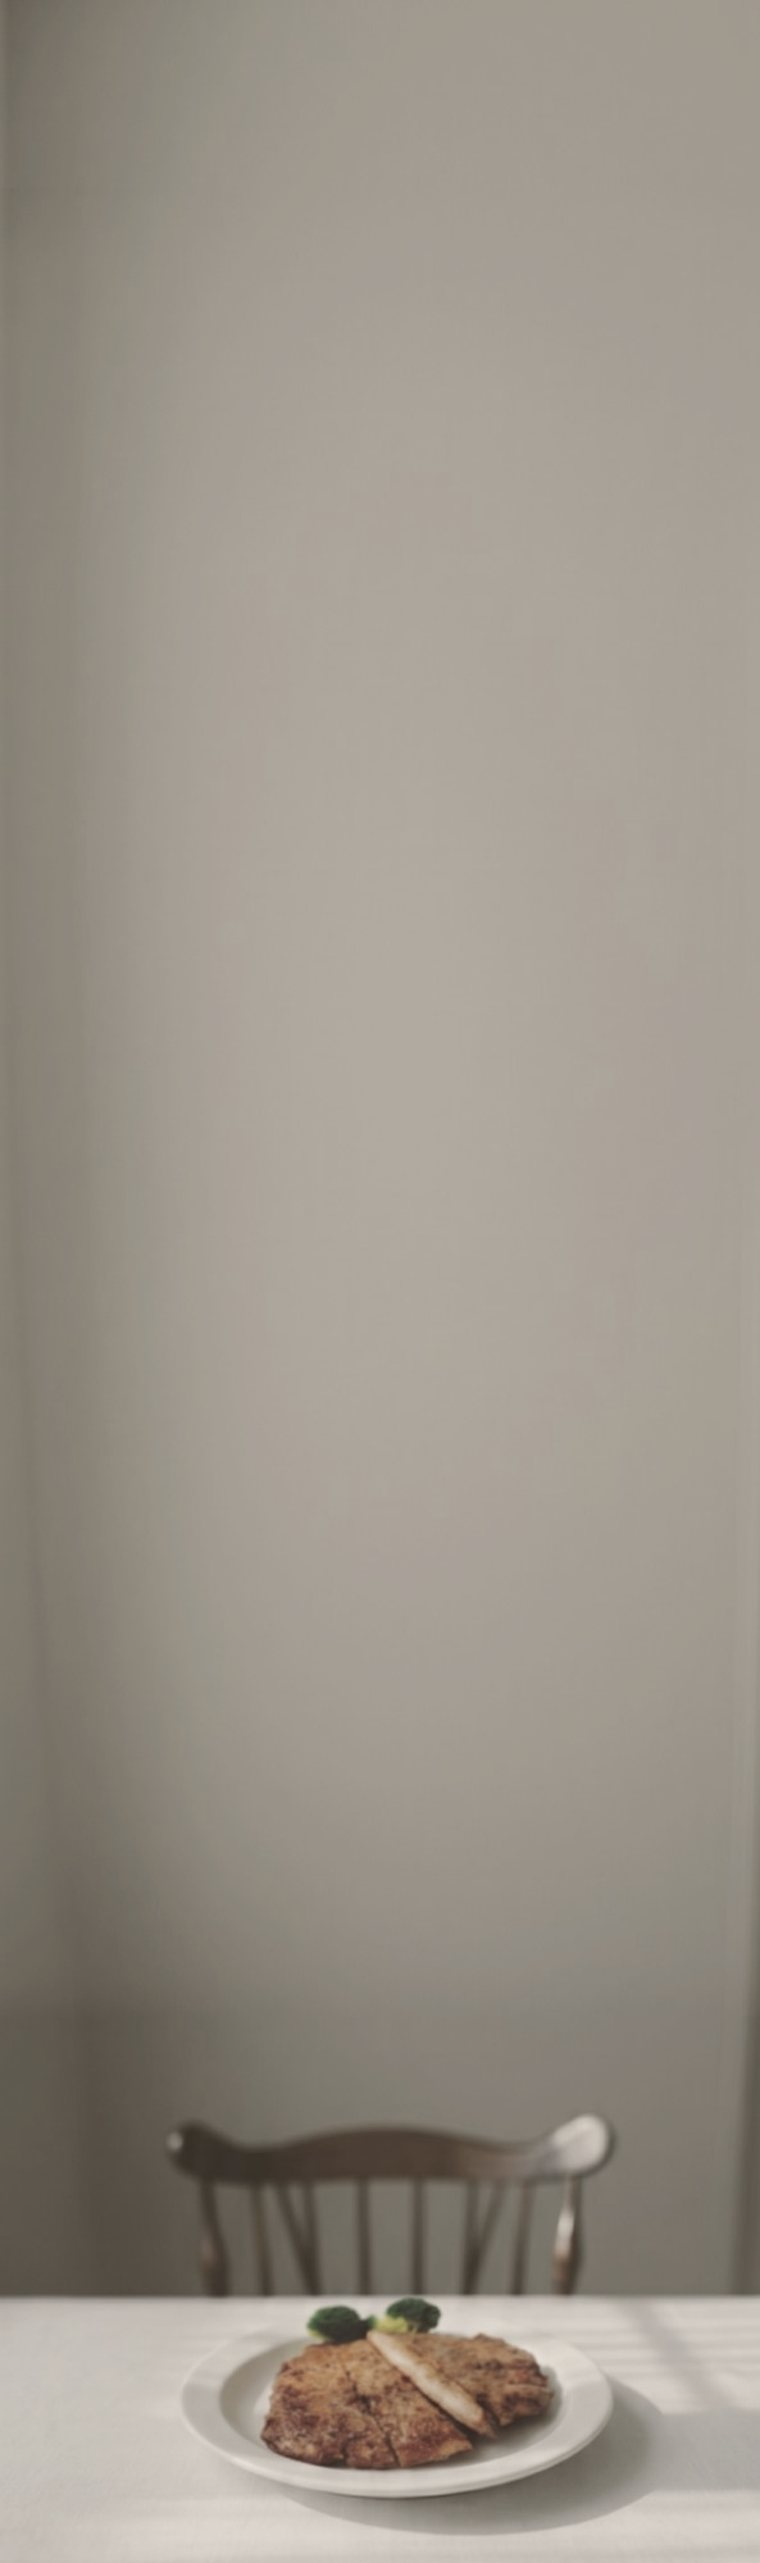
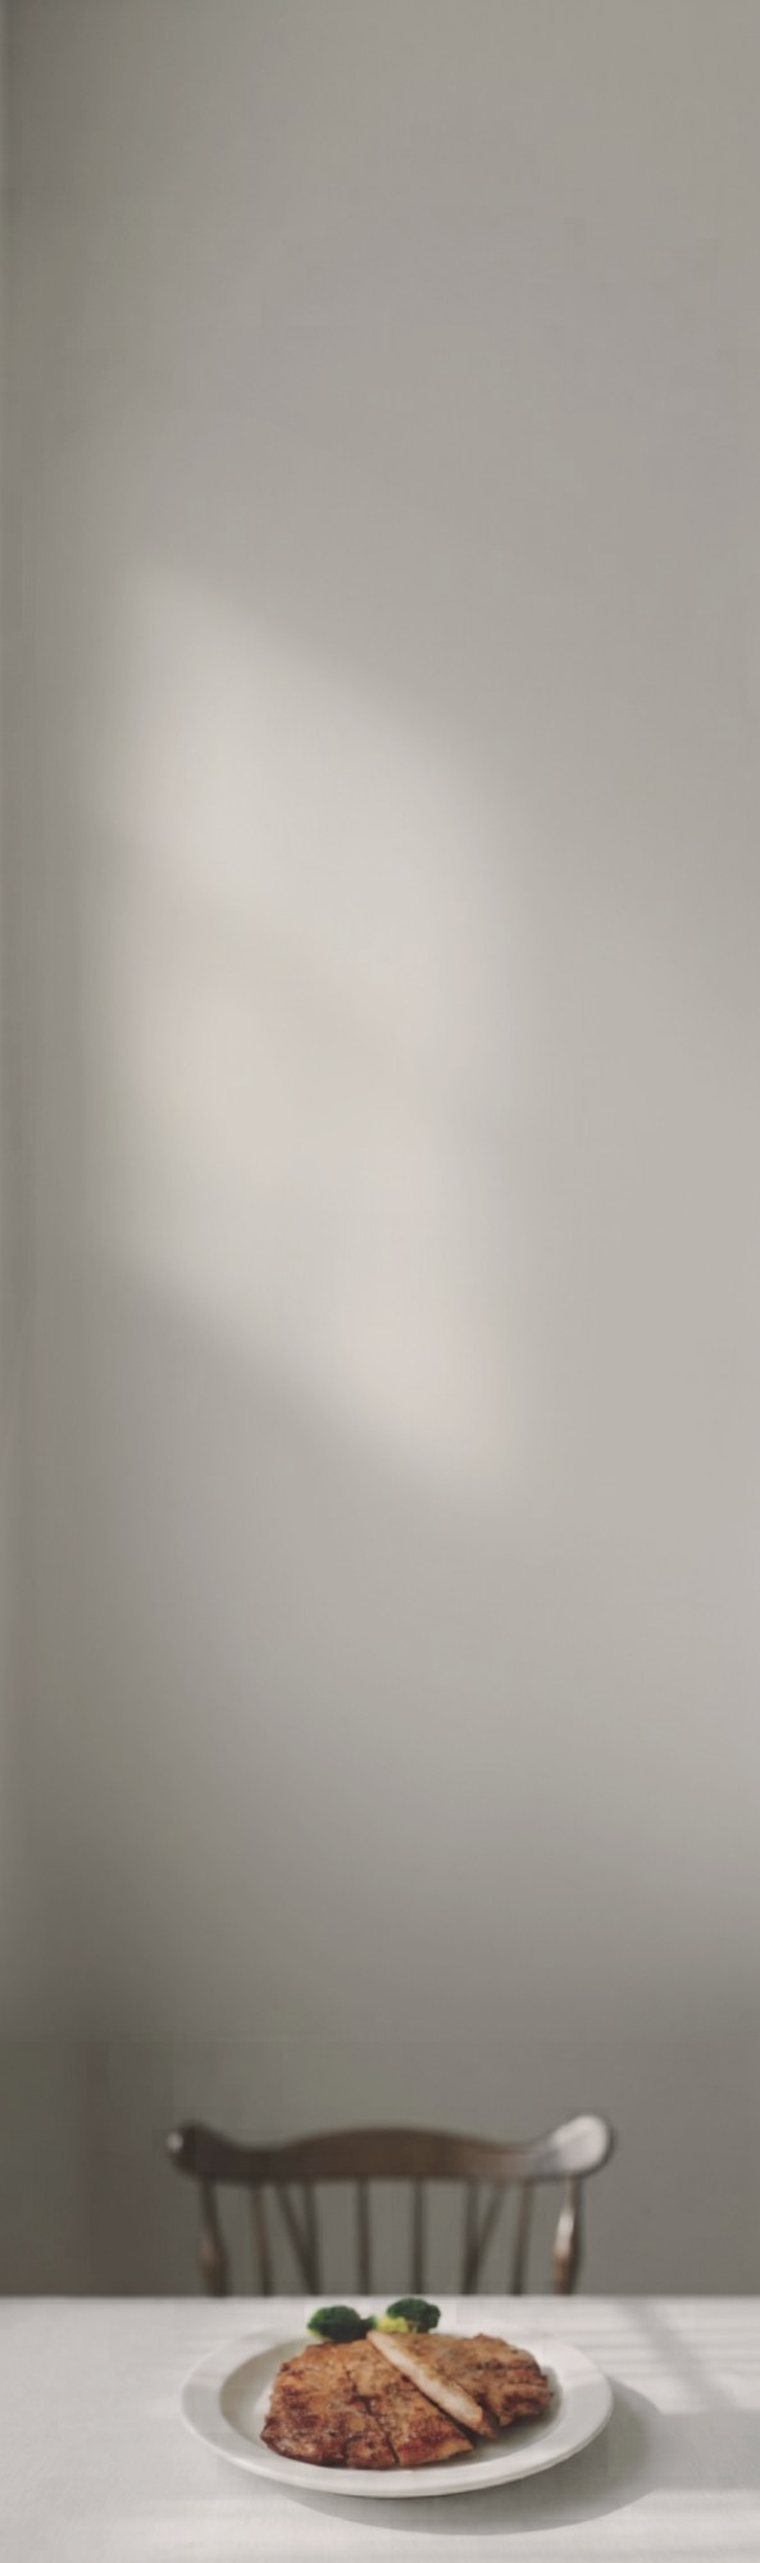
品牌故事改為牆面貼合風：拿掉框線與宣紙頁、換新底圖、黑色招牌置於椅子上方
換用新的餐桌牆面照（暖調）當全幅背景，移除外框線/宣紙頁/菱形，文字直接貼在牆上（加光暈可讀）；結尾 LOGO 與阿嬤插圖改黑色、定位在椅子正上方的牆面。

Claude-Session: https://claude.ai/code/session_015bY9rvj7fDQzXH49adzH3s

Changed region(s): [[0.1211, 0.2185, 1.0, 0.9052]]

diff --git a/index.html b/index.html
@@ -773,13 +773,21 @@ body {
    BRAND STORY FULL
 ════════════════════ */
 .brand-story-full {
-  background: #8A7658 url(photos/story-bg.jpg) center bottom/cover no-repeat;  /* 暖調照片襯底 */
-  padding: 60px 46px 60px;
+  background: #8A7658 url(photos/story-bg.jpg) center bottom/cover no-repeat;  /* 牆面照片 */
+  padding: 54px 34px 560px;
   border-bottom: 1px solid rgba(180,150,100,0.12);
   text-align: center;
   position: relative;
 }
-@media(max-width:600px){ .brand-story-full { padding: 48px 30px 48px; } }
+@media(max-width:600px){ .brand-story-full { padding: 44px 20px 540px; } }
+/* 文字直接貼在牆面，用光暈確保可讀 */
+.brand-story-full .bsf-eyebrow,
+.brand-story-full .bsf-of,
+.brand-story-full .bsf-lead,
+.brand-story-full .bsf-body,
+.brand-story-full .bsf-closing{
+  text-shadow: 0 1px 2px rgba(247,241,225,.95), 0 0 14px rgba(247,241,225,.85);
+}
 /* 儀式感雙細框線＋框內宣紙白內頁（裱框感） */
 .brand-story-full::before{
   content:''; position:absolute; inset:18px;
@@ -795,10 +803,10 @@ body {
   border:1px solid rgba(123,90,56,.16);
   z-index:0; pointer-events:none;
 }
-@media(max-width:600px){
-  .brand-story-full::before{ inset:12px; }
-  .brand-story-full::after{ inset:16px; }
-}
+/* 拿掉外框線、宣紙頁背景與菱形 */
+.brand-story-full::before,
+.brand-story-full::after{ display:none !important; }
+.bsf-dia{ display:none !important; }
 /* 內容置於框線之上 */
 .brand-story-full > *{ position:relative; z-index:1; }
 /* 上下框線中央小菱形 */
@@ -879,18 +887,21 @@ body {
   background: var(--amber);
   margin: 0 auto 26px;
 }
+.bsf-endmark{
+  position:absolute; left:0; right:0; bottom:442px;
+  text-align:center; z-index:2; pointer-events:none;
+}
 .bsf-endlogo {
   display: block;
-  width: 150px; max-width: 52%;
-  height: auto;
-  margin: 34px auto 0;
+  width: 150px; max-width: 46%;
+  height: auto; margin: 0 auto;
 }
 .bsf-endart {
   display: block;
-  width: 116px; max-width: 42%;
-  height: auto;
-  margin: 14px auto 0;
+  width: 104px; max-width: 34%;
+  height: auto; margin: 10px auto 0;
 }
+@media(max-width:600px){ .bsf-endmark{ bottom:365px; } }
 
 </style>
 <style id="taipei-font">
@@ -1191,8 +1202,10 @@ html,body,h1,h2,h3,h4,h5,h6,p,div,span,a,strong,em,b,li,button,input,label,.htag
     畢竟，<br>阿嬤不會給你吃加了防腐劑的料理。<br>她會把肉醃好，等你回家，<br>現煎給你吃。<br><br>現在，我們做阿嬤做的那一半，<br>用好料把肉醃透。<br>剩下的那一半，<br>在你家的廚房讓你自己完成。
   </div>
 
-  <img class="bsf-endlogo" src="photos/logo-red.png" alt="阿嬤家之味">
-  <img class="bsf-endart" src="photos/story-red.png" alt="阿嬤與孫子">
+  <div class="bsf-endmark">
+    <img class="bsf-endlogo" src="photos/logo-black.png" alt="阿嬤家之味">
+    <img class="bsf-endart" src="photos/story-black.png" alt="阿嬤與孫子">
+  </div>
 </section>
 
 <!-- ════ FLAVORS ════ -->
